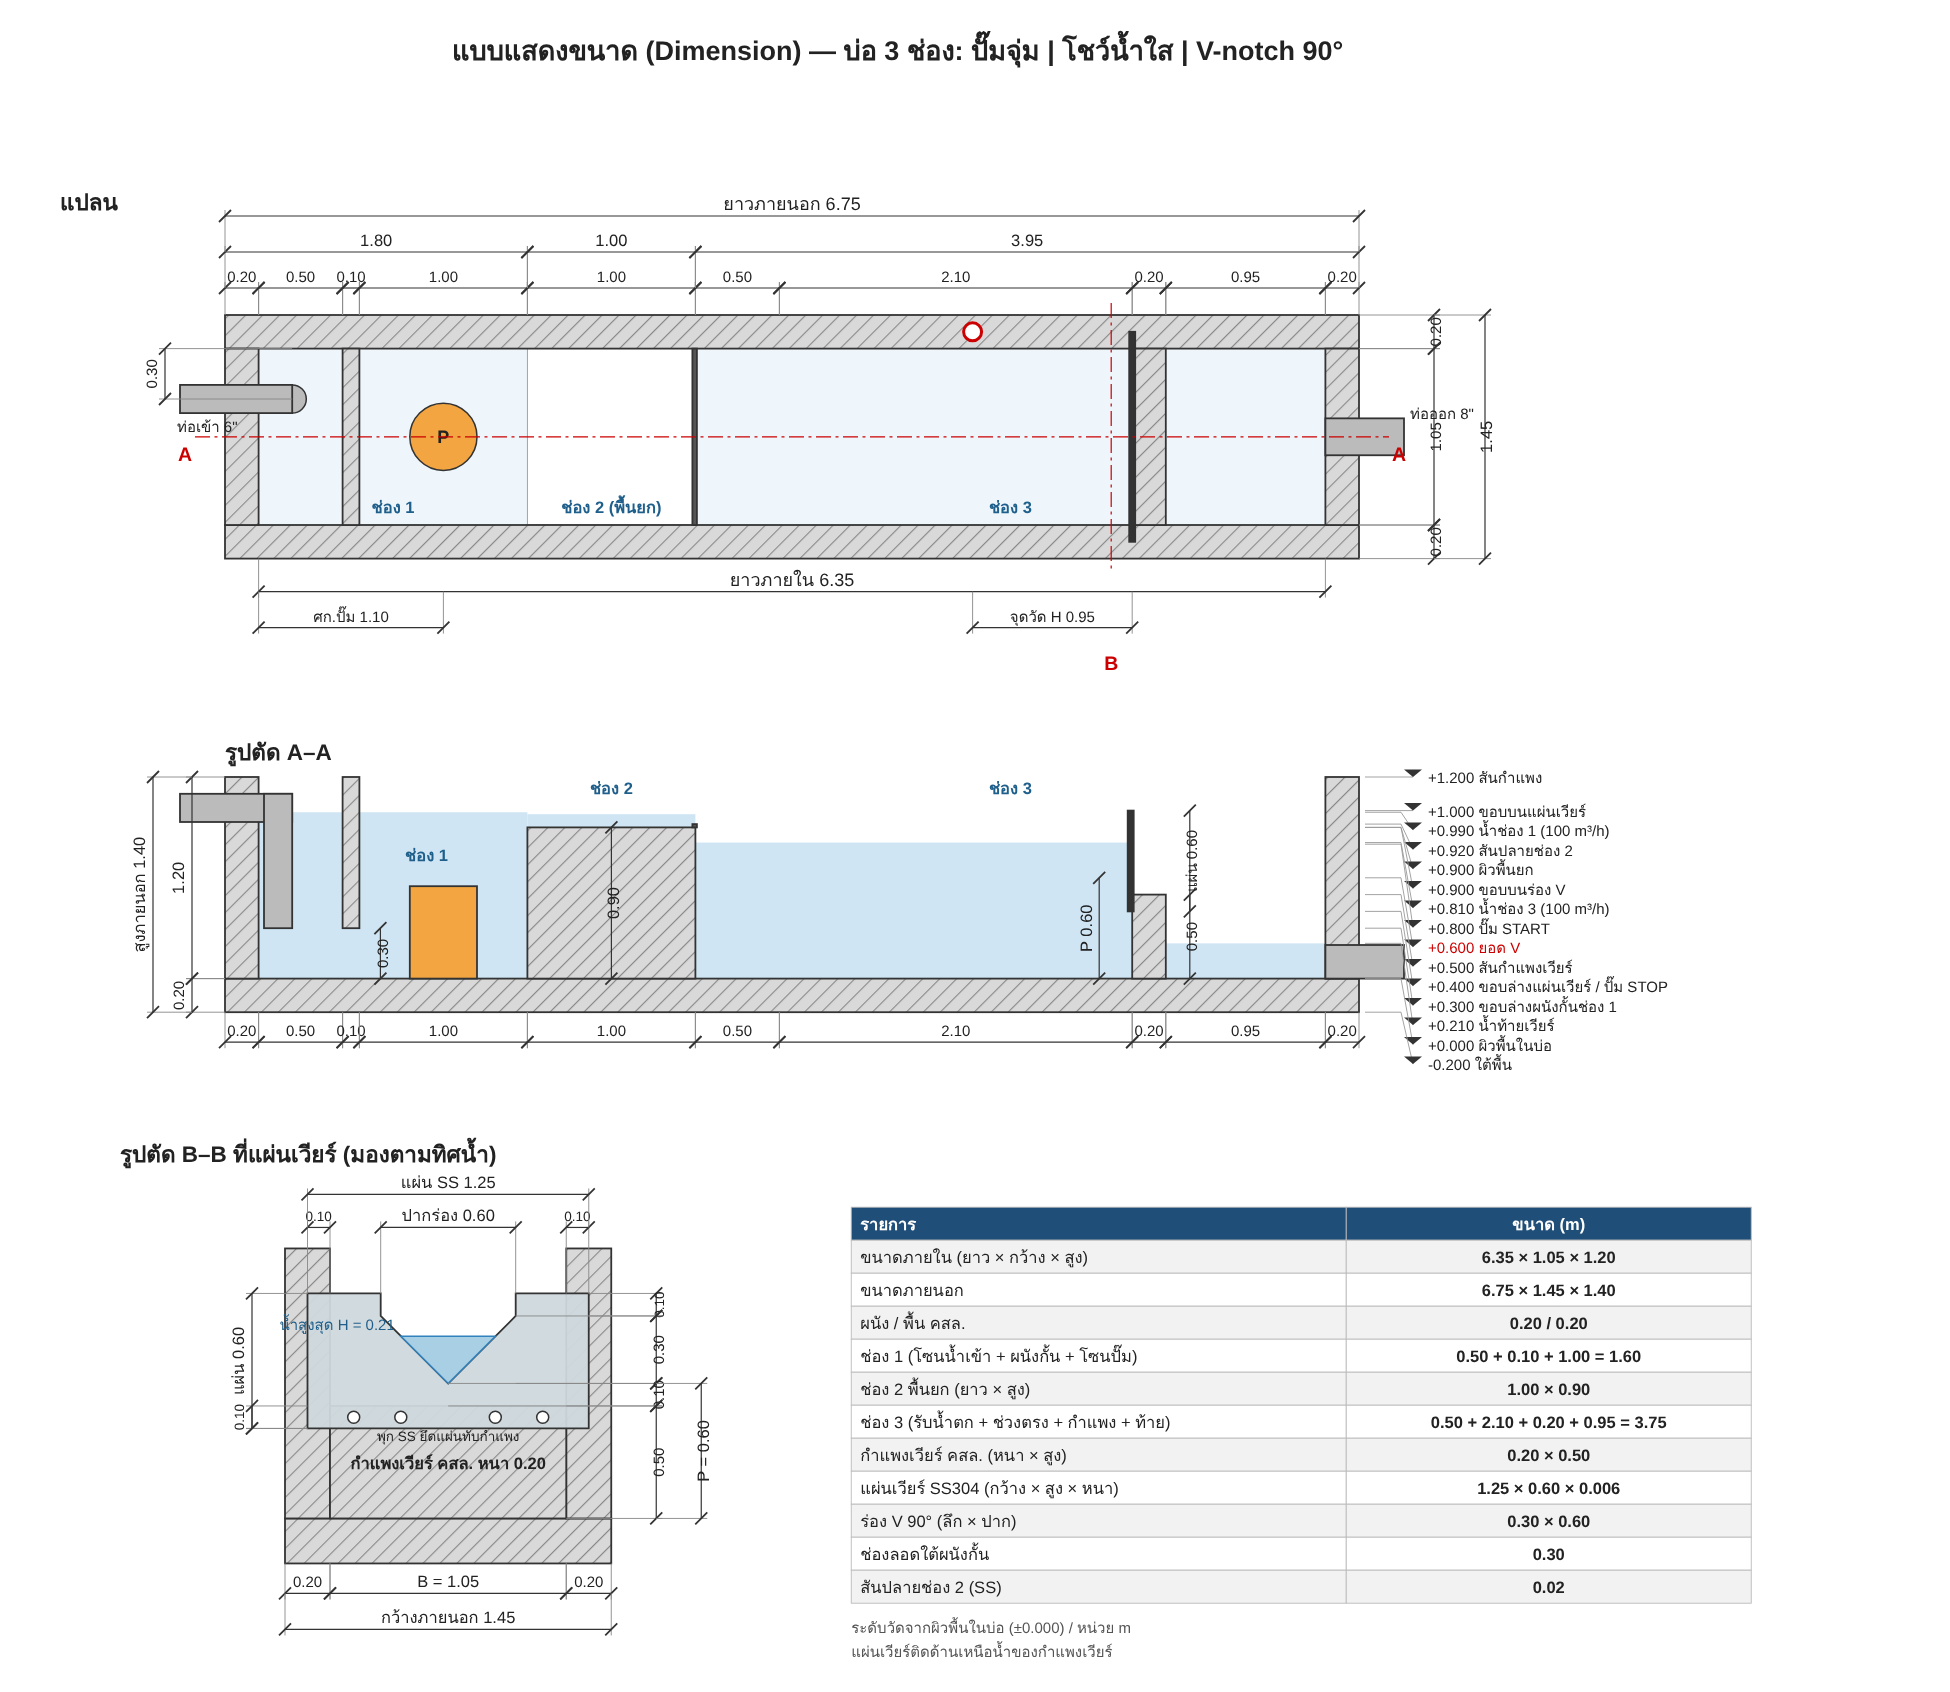
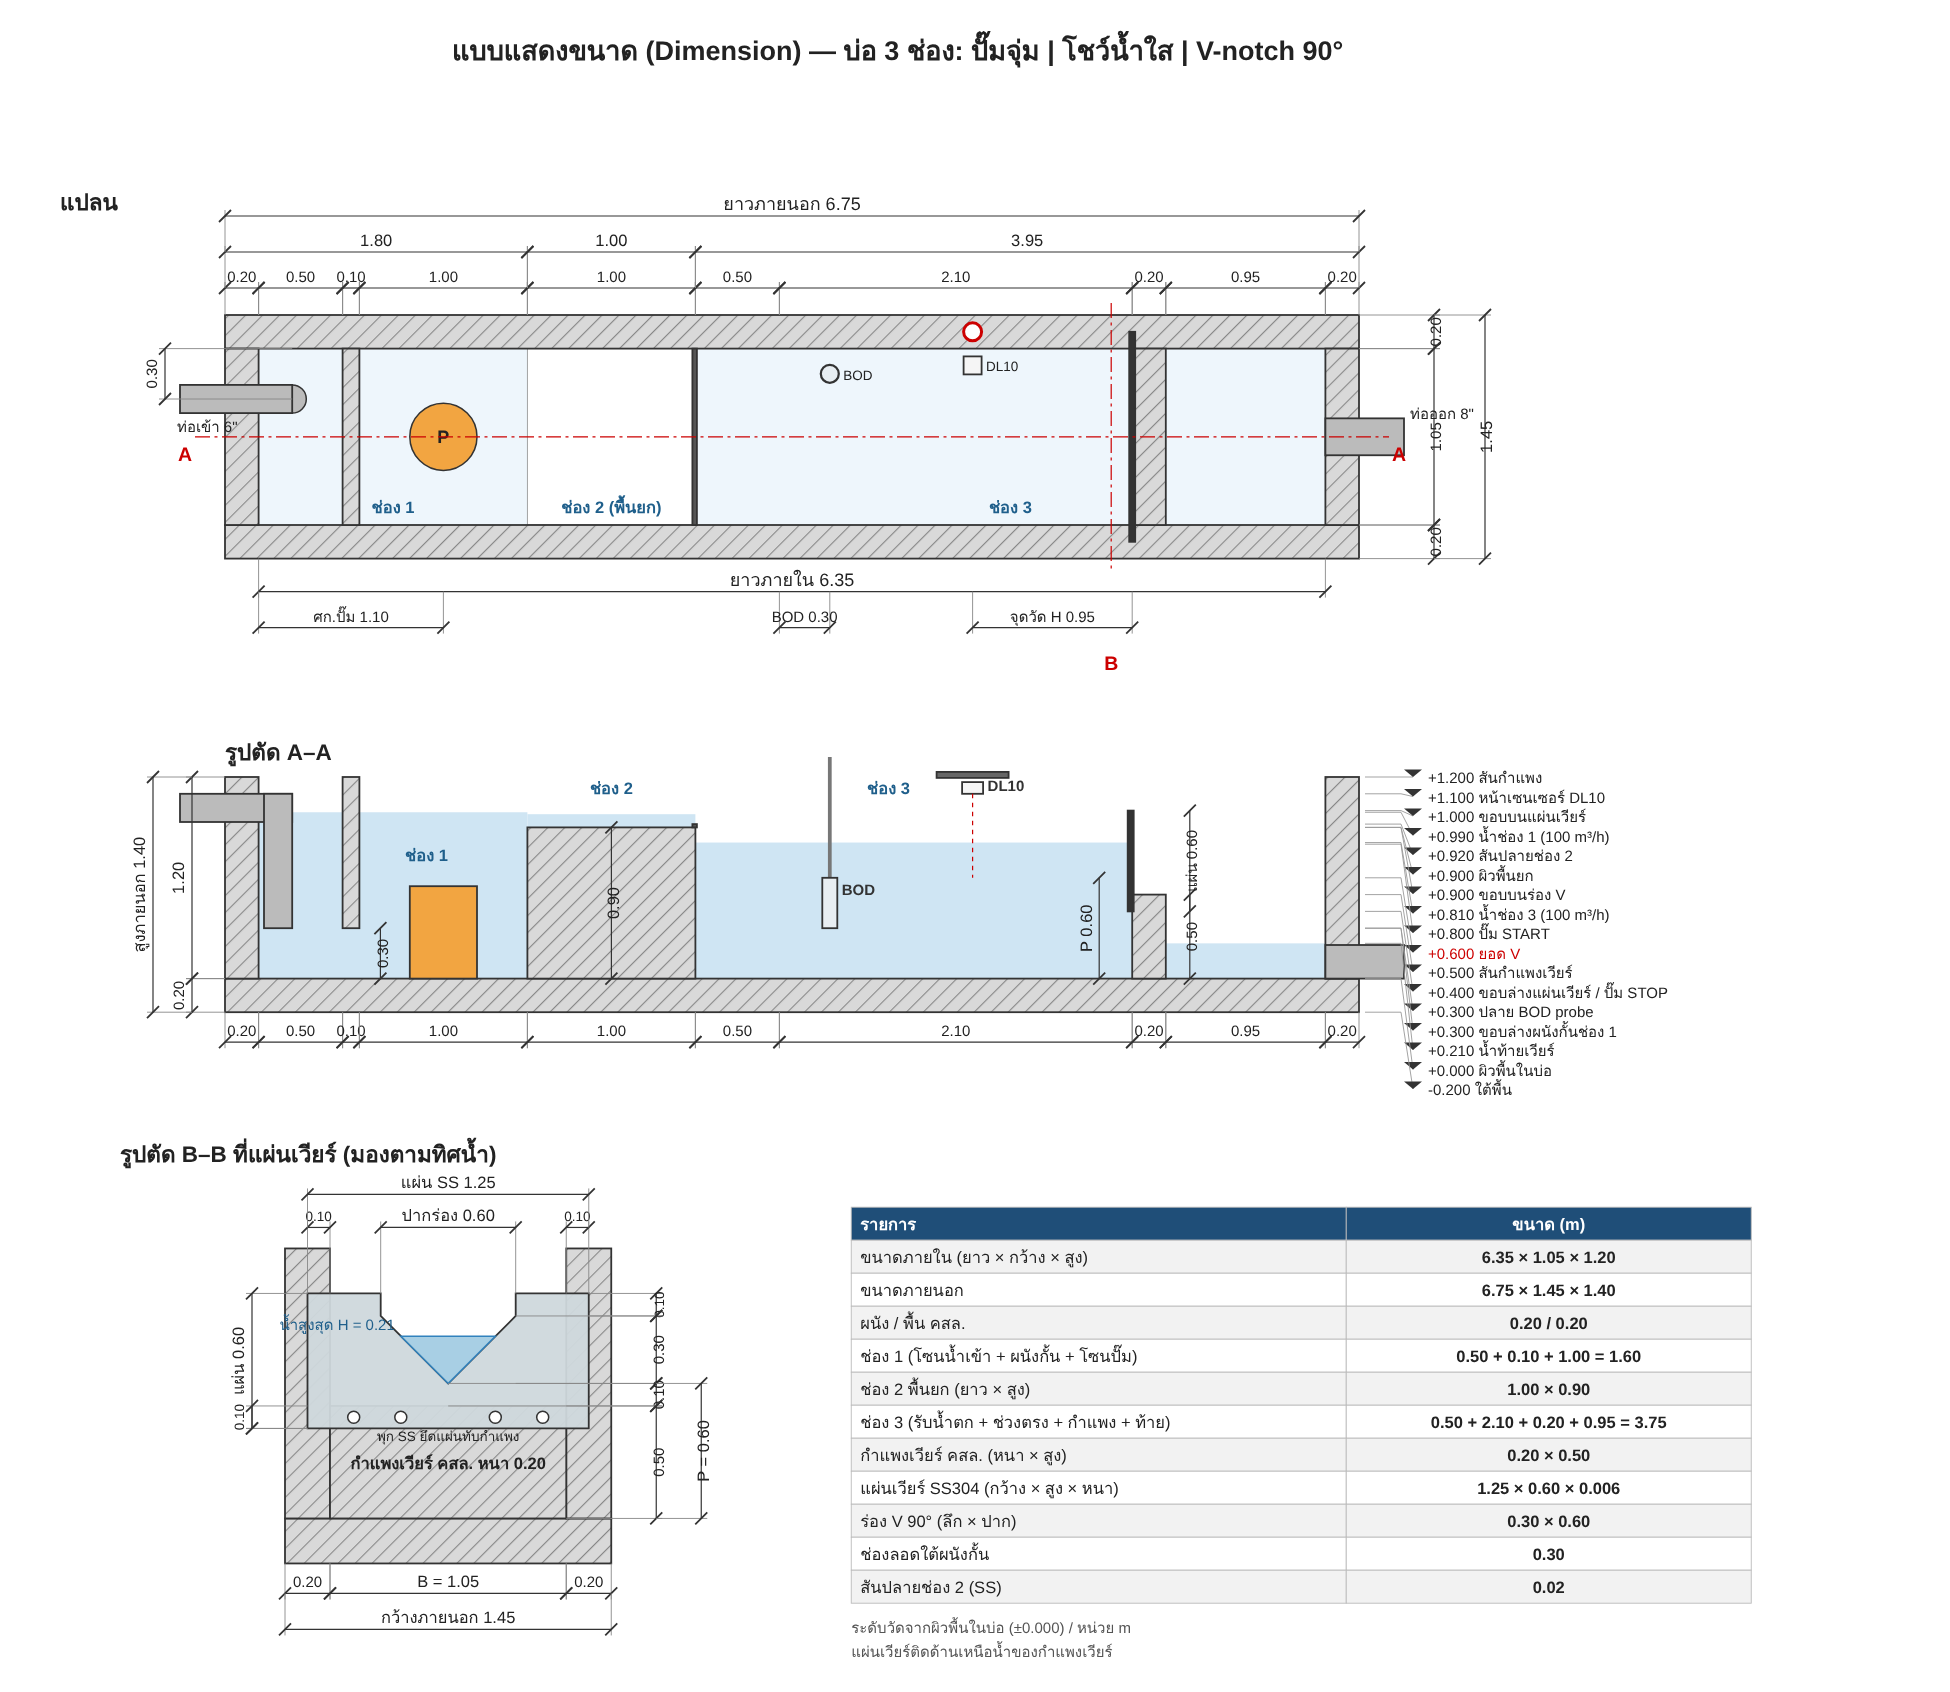
Place BOD probe and DL10 level sensor in compartment 3
Excel computes probe tip level (+0.30, always >= 0.30 m submerged since
compartment 3 holds water at the V vertex) and DL10 mounting (+1.10,
0.29-0.50 m to water, within 0.05-1.25 m range). Drawings, dimension
sheet and animation show both sensors.

Claude-Session: https://claude.ai/code/session_01PXLmoKkgGBxM2QbbegGKn7

diff --git a/animation/weir-animation.html b/animation/weir-animation.html
@@ -220,7 +220,14 @@ svg .mono { font-family: var(--font-mono); }
   label(-0.72, 1.12, 'ท่อเข้า 6"', { anchor: 'start', size: 12, color: css('muted') });
   label(xEnd + 0.62, 0.26, 'ท่อออก 8"', { anchor: 'end', size: 12, color: css('muted') });
   label(2.38, 1.45, 'Recycle 10 m³/h', { anchor: 'start', size: 12, color: css('recycle'), weight: 600 });
-  label(xTap + 0.05, zTop + 0.04, 'จุดวัด H', { anchor: 'start', size: 12, color: css('accent'), weight: 600 });
+  label(xTap + 0.08, zTop + 0.13, 'DL10 วัดระดับ (จุดวัด H)', { anchor: 'start', size: 12, color: css('accent'), weight: 600 });
+  // เซนเซอร์: DL10 บนคาน + BOD probe ชิดผนังช่วงต้นช่วงตรง
+  el('rect', { x: X(xTap) - 30, y: Y(zTop + 0.04), width: 60, height: 5, fill: css('steel') }, gStatic);
+  el('rect', { x: X(xTap) - 9, y: Y(1.18), width: 18, height: 0.08 * S, rx: 3, fill: '#f4f6f7', stroke: css('steel') }, gStatic);
+  const xBod = 3.40, zBod = 0.30;
+  el('line', { x1: X(xBod), x2: X(xBod), y1: Y(zTop + 0.18), y2: Y(zBod + 0.25), stroke: css('steel'), 'stroke-width': 3 }, gStatic);
+  el('rect', { x: X(xBod) - 6, y: Y(zBod + 0.30), width: 12, height: 0.30 * S, rx: 4, fill: '#f4f6f7', stroke: css('steel') }, gStatic);
+  label(xBod + 0.07, zTop + 0.13, 'BOD probe', { anchor: 'start', size: 12, color: css('ink'), weight: 600 });
   label(xBaf + 0.05, -0.12, 'ผนังกั้นลอดใต้', { size: 11, color: css('ink') });
     label(xWeir + 0.1, -0.12, 'กำแพงเวียร์ + แผ่น SS', { size: 11, color: css('ink') });
   const tH = label(xWeir - 0.08, 0, '', { anchor: 'end', size: 13, color: css('accent'), weight: 700 });

diff --git a/README.md b/README.md
@@ -56,6 +56,13 @@
 | แผ่นเวียร์ SS304 | กว้าง B + 2 × 0.10 / ขอบล่าง +0.40 ถึงขอบบน P + ลึกร่อง + 0.10 | — | **1.25 × 0.60 m** หนา 6 mm (หน่วยแรง 8 MPa ≤ 123 ✔) |
 | ผนัง/พื้น คสล. | Mu = 1.7 × γH³/6 = 4.8 kN·m/m → เหล็กตามขั้นต่ำ 600 mm²/m | — | **0.20 m**, DB12@175 |
 
+## 4. ตำแหน่งเซนเซอร์ (ช่อง 3)
+
+| เซนเซอร์ | ตำแหน่ง | ระดับ | ตรวจ |
+|---|---|---|---|
+| BOD probe (WTW UV 705 IQ SAC) | ต้นช่วงตรง + 0.30 m ชิดผนังข้าง 0.15 m (ห่างแผ่นเวียร์ 1.80 m) | ปลาย probe +0.30 | น้ำในช่อง 3 ค้างที่ยอด V (+0.60) เสมอ → จมน้ำ ≥ 0.30 m ไม่แห้ง |
+| DL10 วัดระดับ (Flow) | เหนือจุดวัด H ห่างแผ่นเวียร์ 0.95 m บนคานพาดขวาง | หน้าเซนเซอร์ +1.10 | ระยะถึงผิวน้ำ 0.29–0.50 m อยู่ในช่วงวัด 0.05–1.25 m |
+
 **ขนาดบ่อ:** ภายใน **6.35 × 1.05 × 1.20 m** / ภายนอก **6.75 × 1.45 × 1.40 m**
 (ช่อง 1 = 1.60, ช่อง 2 = 1.00, ช่อง 3 = รับน้ำตก 0.50 + ช่วงตรง 2.10 + กำแพงเวียร์ 0.20 + ท้ายเวียร์ 0.95 = 3.75)
 
